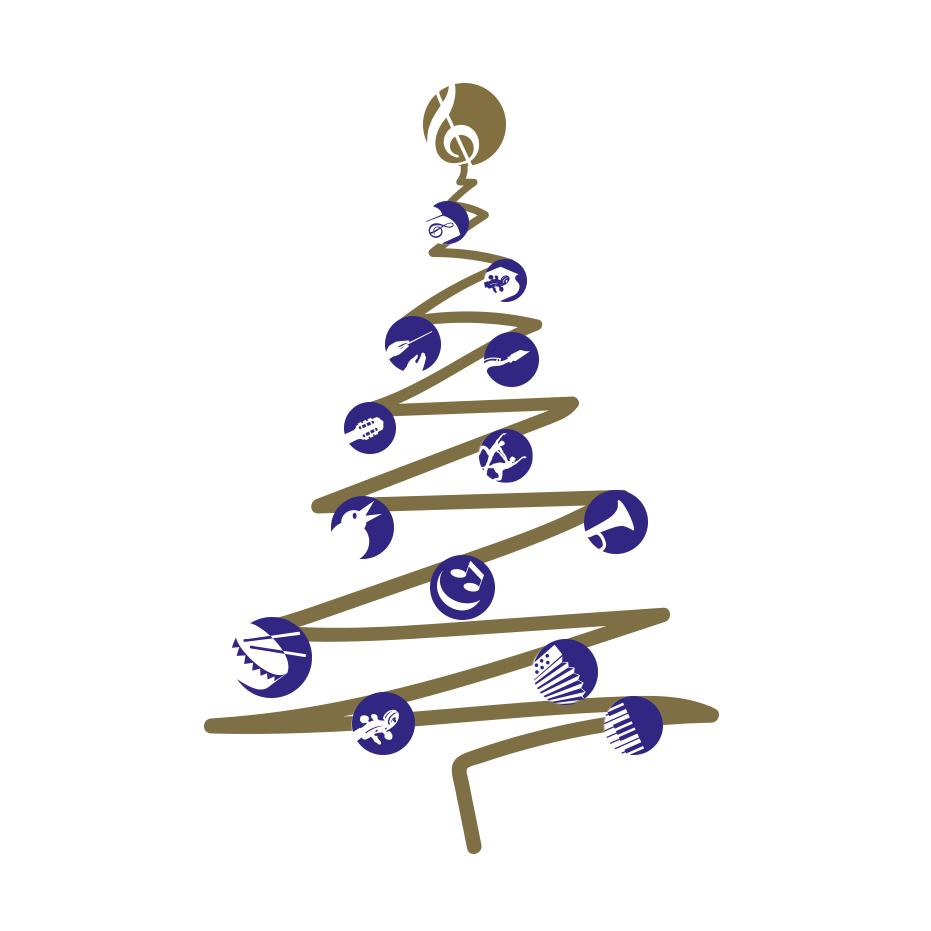
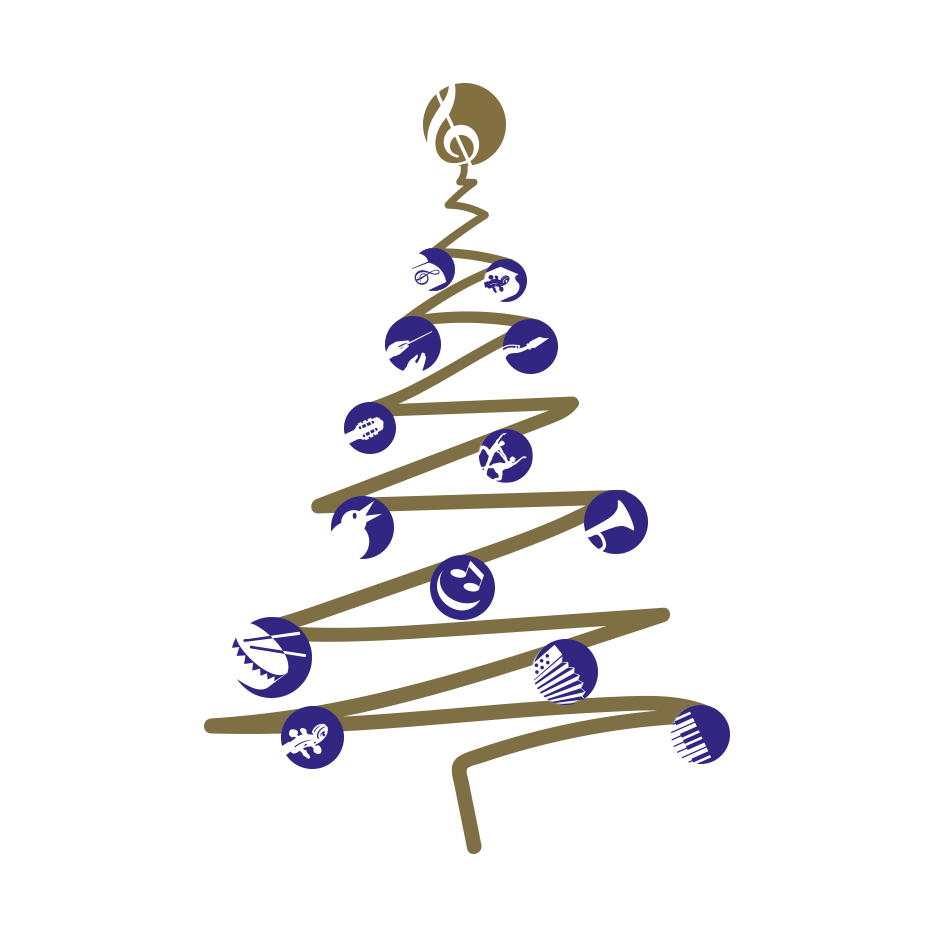
popravki - font, smrekica

diff --git a/index.html b/index.html
@@ -7,7 +7,7 @@
     <title>Čestitka</title>
     <link rel="preconnect" href="https://fonts.googleapis.com">
     <link rel="preconnect" href="https://fonts.gstatic.com" crossorigin>
-    <link href="https://fonts.googleapis.com/css2?family=Raleway:wght@200&display=swap" rel="stylesheet"> 
+    <link href="https://fonts.googleapis.com/css2?family=Raleway" rel="stylesheet"> 
     <link rel="icon" type="image/x-icon" href="./logo-gs-lara.png">
     <link rel="stylesheet" href="./style.css">
     <script src="https://ajax.googleapis.com/ajax/libs/jquery/3.6.1/jquery.min.js"></script>
@@ -17,9 +17,9 @@
     <main>
         <div class="center">
             <img src="./slike/smrekica.png" class="smrekica">
-            <h1 style="text-align:center;" class="voscilo">SREČNO 2023 – z glasbo v srcu.<br>
+            <h1 style="text-align:center; color: #312783;" class="voscilo">SREČNO 2023 – z glasbo v srcu.<br>
 
-                <small> Rosana Jakšič in kolektiv Glasbene šole Laško – Radeče</small></h1>
+                <h2 style="text-align:center; color: #312783;">Ravnateljica Rosana Jakšič in kolektiv Glasbene šole Laško – Radeče</h2></h1>
         </div>
         <div class="snowflakes" aria-hidden="true">
             <div class="snowflake">

diff --git a/style.css b/style.css
@@ -1,6 +1,5 @@
 body {
     overflow: hidden;  
-    font-family: Raleway;
     background-image: url("glasbenaradecebg.png");
     background-size: 85%;
 }
@@ -41,11 +40,23 @@ body {
 @media (min-width: 200px) and (orientation:landscape) {
     h1 {
         font-size:3vw;
+        font-family: Raleway;
+    }
+    h2 {
+        font-size:1.5vw;
+        font-family: Raleway;
+        font-weight: 100;
     }
 }
 
 @media (min-height: 200px) and (orientation:portrait) {
     h1 {
         font-size:3vh;
+        font-family: Raleway;
+    }
+    h2 {
+        font-size:1.5vh;
+        font-family: Raleway;
+        font-weight: 100;
     }
 }
